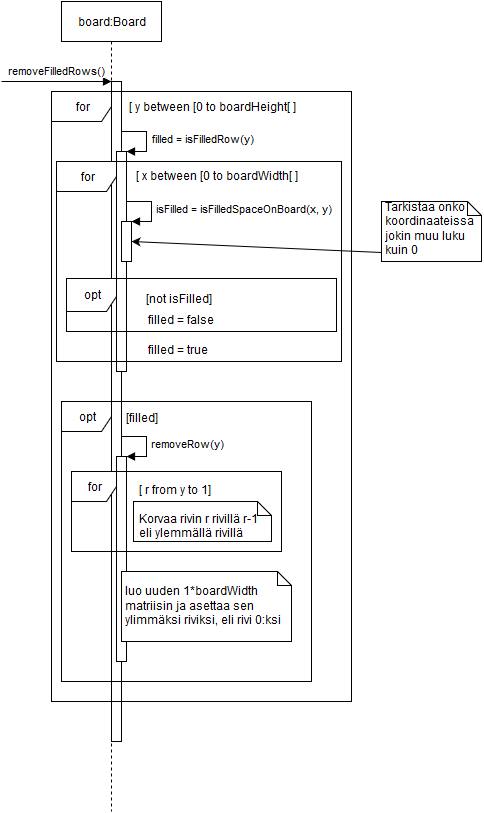
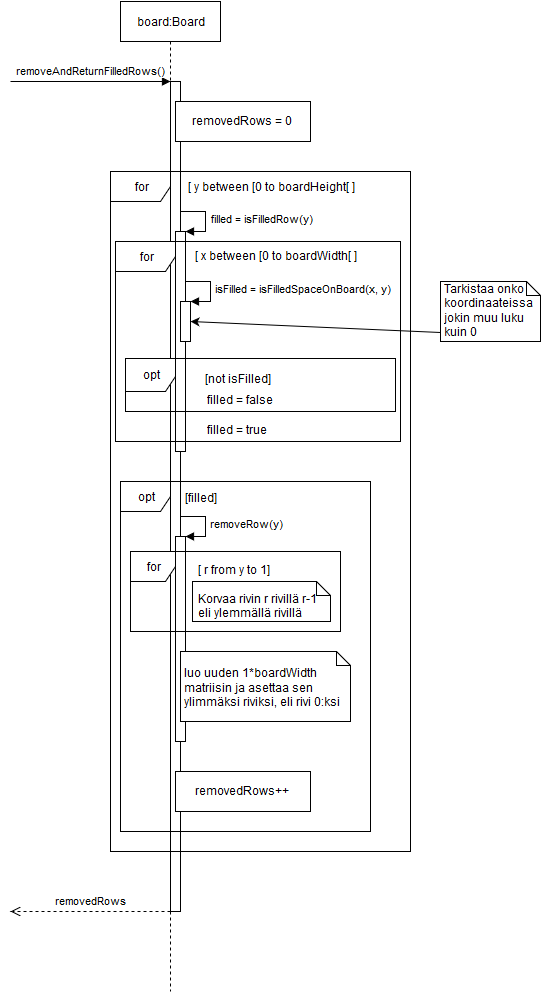
Kaaviot kuntoon

diff --git a/retris/src/main/java/retris/logic/Game.java b/retris/src/main/java/retris/logic/Game.java
@@ -175,6 +175,11 @@ public final class Game implements Updateable {
         return true;
     }
 
+    /**
+     * Antaa pisteet pelaajalle tuhottujen rivien määrän mukaan
+     *
+     * @param removedRows tuhotut rivit
+     */
     public void rewardScore(int removedRows) {
         if (removedRows > 0) {
             gameState.modifyScore((long) (Math.pow(2, removedRows) * 50));

diff --git a/dokumentointi/tuntikirjanpito.md b/dokumentointi/tuntikirjanpito.md
@@ -18,3 +18,4 @@
 - 11.10. 2h, GUI uudelleenkoodausta joka ei päätynyt repositoryyn kuitenkaan
 - 12.10. 2h, Joitakin lisäominaisuuksia (pisteytys, game over teksti) ja hieman refaktorointia jotta lisäominaisuudet on helpompi lisätä.
 - 13.10. 9h, Pelin perus päivitystoiminnon uudelleenkirjoitus höystettynä muiden toimintojen osittaisena uudelleenkirjoituksena. Testit uudelle koodille ja dokumentointi. Vielä pitää päivittää kaaviot.
+- 14.10. 4h, Päivitä luokka- ja sekvenssikaaviot. Ikävästi luokkakaaviosta tuli sekava relaatioiden määrän takia. Vanhojen luokkakaavioiden läpikäynti auttaa ymmärtämään paremmin miten asiat liittyvät toisiinsa.

diff --git a/README.md b/README.md
@@ -10,4 +10,4 @@ retris, eli siis perinteinen tetris peli ihan vaan huvinpitoon ja ajanvietteesee
 ![dokumentointi/GUI screenshot 2.png](dokumentointi/GUI screenshot 2.png)
 
 ##Luokkakaavio
-![dokumentointi/JAVALABRA luokkakaavio 2.png](dokumentointi/JAVALABRA luokkakaavio 2.png)
+![dokumentointi/JAVALABRA luokkakaavio 3.png](dokumentointi/JAVALABRA luokkakaavio 3.png)
